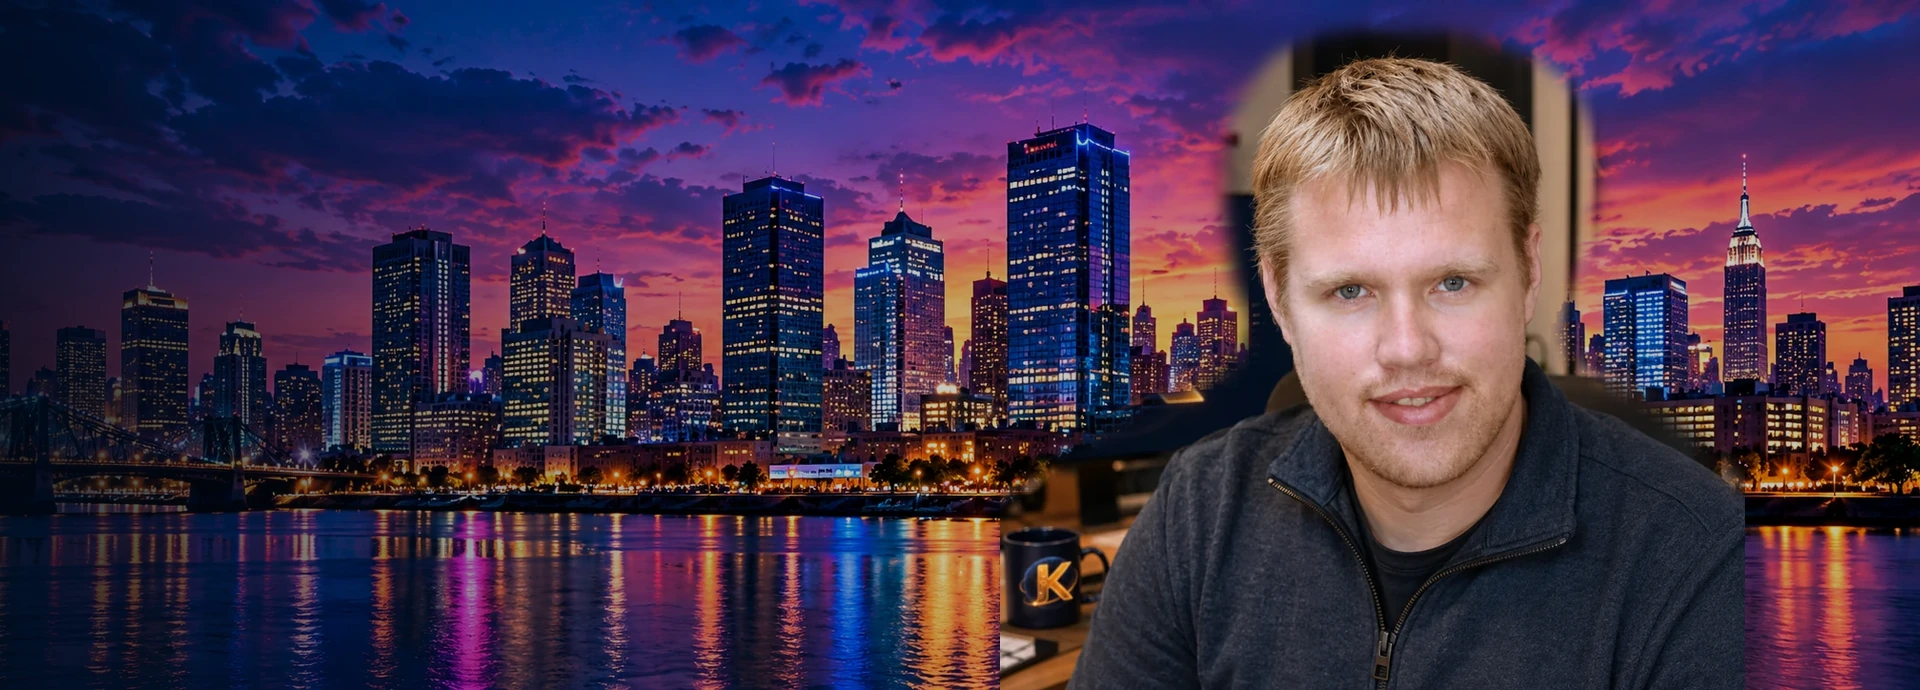
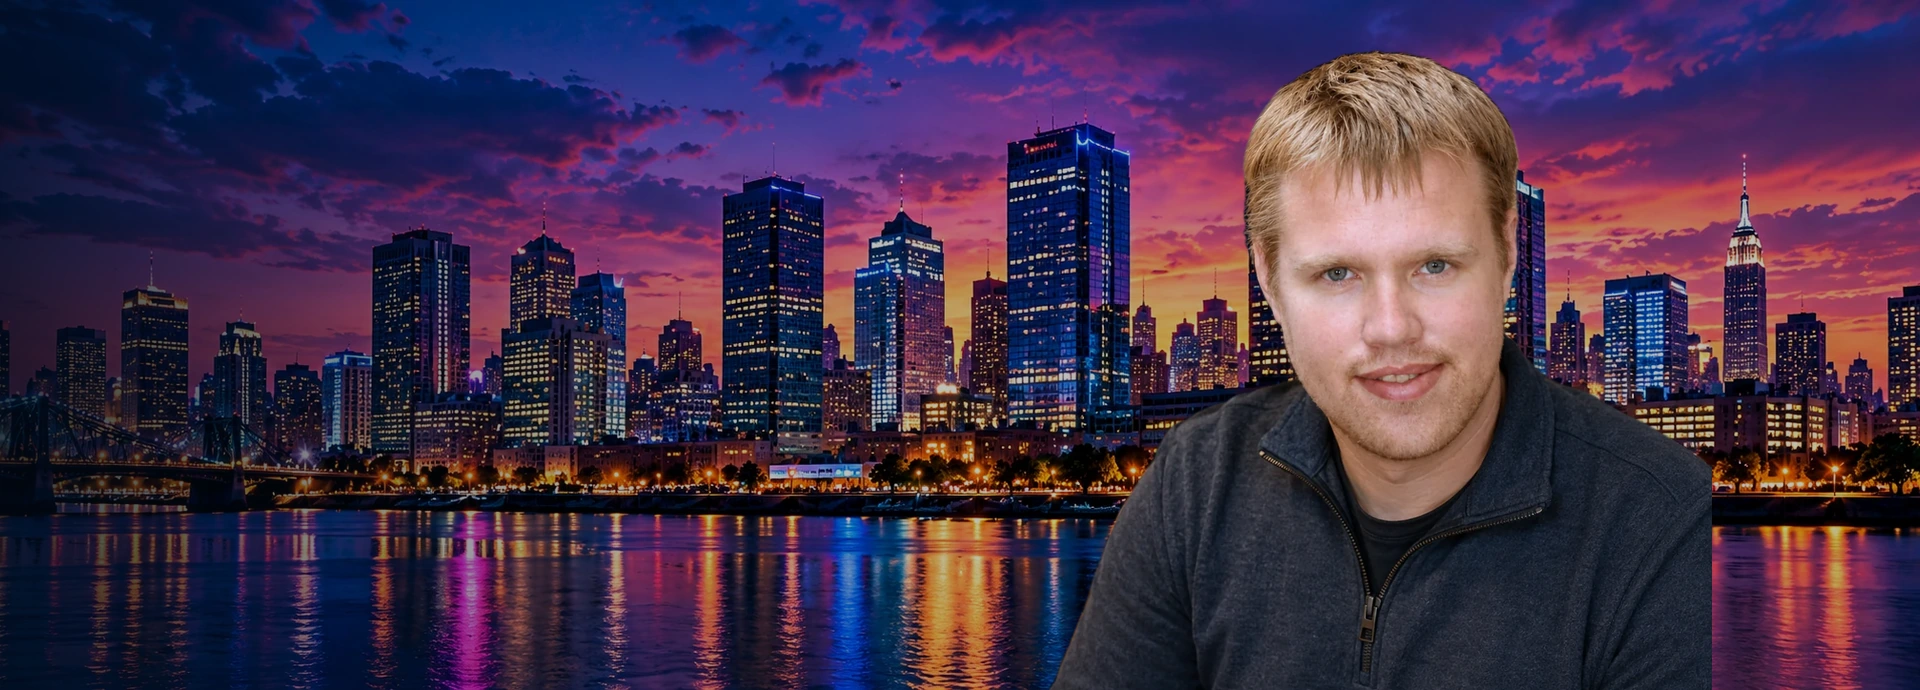
Replace rough About collage with verified Robert cutout

diff --git a/docs/about.html b/docs/about.html
@@ -1,6 +1,6 @@
 <!DOCTYPE html>
 
-<html lang="en"><head><meta charset="utf-8"/><meta content="width=device-width,initial-scale=1" name="viewport"/><meta content="#080a12" name="theme-color"/><title>Robert McMurrer | Author, Actor, Filmmaker &amp; Kira Labs Founder</title><meta content="Robert McMurrer is an author, actor, filmmaker and founder of Kira Labs in Newark, New Jersey. Explore his screen work, books and AI research." name="description"/><link href="https://kiralabs.org/about.html" rel="canonical"/><meta content="Robert McMurrer | Author, Filmmaker &amp; Founder of Kira Labs" property="og:title"/><meta content="Discover Robert McMurrer’s acting and filmmaking credits, books, and independent AI research at Kira Labs." property="og:description"/><meta content="website" property="og:type"/><meta content="https://kiralabs.org/assets/robert-founder-skyline-real-likeness-20261020.webp" property="og:image"/><meta content="summary_large_image" name="twitter:card"/><link href="https://kiralabs.org/assets/favicon.png" rel="icon"/><link href="labs.css" rel="stylesheet"/><link href="about-contact-showcase.css?v=20261020a" rel="stylesheet"/><script type="application/ld+json">{"@context":"https://schema.org","@type":"ProfilePage","@id":"https://kiralabs.org/about.html#profile","url":"https://kiralabs.org/about.html","name":"About Robert McMurrer","mainEntity":{"@type":"Person","@id":"https://kiralabs.org/about.html#robert-mcmurrer","name":"Robert McMurrer","alternateName":"Robert Lawrence McMurrer","url":"https://kiralabs.org/about.html","description":"Author, actor, filmmaker and independent AI researcher; founder of Kira Labs in Newark, New Jersey.","jobTitle":["Author","Actor","Filmmaker","Founder of Kira Labs"],"worksFor":{"@type":"Organization","name":"Kira Labs","url":"https://kiralabs.org/"},"sameAs":["https://www.imdb.com/name/nm2258412/","https://www.goodreads.com/author/list/6007307.Robert_McMurrer","https://www.linkedin.com/in/rmcmurrer","https://www.facebook.com/rmcmurrer/","https://github.com/rmcmurrer81"]}}</script><link rel="stylesheet" href="fidelity-website-20261020.css?v=20261020-7"/><link rel="stylesheet" href="hero-layout-fix-20261020.css?v=2"/><link rel="stylesheet" href="website-visual-target-20261020.css?v=1"/></head><body class="xf-page xf-about about-page kb-about"><a class="skip" href="#main">Skip to main content</a><header class="site-header"><div class="wrap navrow"><a aria-label="Kira Labs home" class="brand" href="index.html"><span class="brandmark"><img alt="" decoding="async" height="38" src="https://kiralabs.org/assets/kira-world-k-logo-192.png" width="38"/></span><span class="brandwords"><strong>Kira Labs</strong><small>Independent AI research</small></span></a><button aria-controls="primary-nav" aria-expanded="false" class="menubtn menu-toggle" type="button">Menu</button><nav aria-label="Main navigation" class="nav" id="primary-nav"><a href="index.html">Home</a><a href="projects.html">Projects</a><a href="research.html">Research</a><a href="progress.html">Lab timeline</a><a aria-current="page" href="about.html">About</a><a href="support.html">Support</a><a class="contact" href="contact.html">Contact</a></nav></div></header><main id="main"><section class="xf-hero xf-hero-about" aria-labelledby="xf-about-title"><div class="xf-hero-inner"><div class="xf-hero-copy"><p class="xf-overline">About Kira Labs</p><h1 class="xf-display" id="xf-about-title">Robert<em>McMurrer.</em></h1><p class="xf-role">AUTHOR · ACTOR · FILMMAKER · AI RESEARCHER</p><p class="xf-subheading">I'm the founder of Kira Labs, an independent AI research initiative in Newark, New Jersey. My work connects storytelling, technology, learning, memory and the exploration of continuing synthetic people.</p><div class="xf-hero-actions"><a class="button primary" href="contact.html">Contact Robert →</a><a class="button" href="projects.html">Explore the lab →</a></div><nav aria-label="Robert’s professional profiles" class="founder-profiles"><a href="https://www.imdb.com/name/nm2258412/" rel="noopener noreferrer" target="_blank">IMDb · film &amp; television ↗</a><a href="https://www.goodreads.com/author/list/6007307.Robert_McMurrer" rel="noopener noreferrer" target="_blank">Goodreads · published books ↗</a><a href="https://www.linkedin.com/in/rmcmurrer" rel="noopener noreferrer" target="_blank">LinkedIn · professional background ↗</a><a href="https://www.facebook.com/rmcmurrer/" rel="noopener noreferrer" target="_blank">Professional Facebook ↗</a></nav><p class="xf-note">AI-assisted founder image based on Robert’s approved portrait reference. Not an unedited personal photograph.</p></div><figure class="xf-hero-visual"><img src="assets/robert-founder-skyline-real-likeness-20261020.webp" alt="New cinematic composite of Robert’s approved AI-assisted film portrayal against a city skyline, illustrative and not an unedited photograph" fetchpriority="high" decoding="async"/><figcaption>Founder portrait · cinematic composite</figcaption></figure></div></section><section class="xf-section xf-about-gallery" aria-labelledby="xf-gallery-title"><div class="xf-wide"><div class="xf-section-top"><div><p class="xf-overline">From storytelling to AI research</p><h2 class="xf-section-title" id="xf-gallery-title">From storytelling<em>to AI research.</em></h2></div><p>Writing, filmmaking, learning and synthetic identity research are connected through a lifelong interest in stories and continuing relationships.</p></div><div class="xf-card-grid">
+<html lang="en"><head><meta charset="utf-8"/><meta content="width=device-width,initial-scale=1" name="viewport"/><meta content="#080a12" name="theme-color"/><title>Robert McMurrer | Author, Actor, Filmmaker &amp; Kira Labs Founder</title><meta content="Robert McMurrer is an author, actor, filmmaker and founder of Kira Labs in Newark, New Jersey. Explore his screen work, books and AI research." name="description"/><link href="https://kiralabs.org/about.html" rel="canonical"/><meta content="Robert McMurrer | Author, Filmmaker &amp; Founder of Kira Labs" property="og:title"/><meta content="Discover Robert McMurrer’s acting and filmmaking credits, books, and independent AI research at Kira Labs." property="og:description"/><meta content="website" property="og:type"/><meta content="https://kiralabs.org/assets/robert-founder-skyline-real-likeness-20261020.webp?v=3" property="og:image"/><meta content="summary_large_image" name="twitter:card"/><link href="https://kiralabs.org/assets/favicon.png" rel="icon"/><link href="labs.css" rel="stylesheet"/><link href="about-contact-showcase.css?v=20261020a" rel="stylesheet"/><script type="application/ld+json">{"@context":"https://schema.org","@type":"ProfilePage","@id":"https://kiralabs.org/about.html#profile","url":"https://kiralabs.org/about.html","name":"About Robert McMurrer","mainEntity":{"@type":"Person","@id":"https://kiralabs.org/about.html#robert-mcmurrer","name":"Robert McMurrer","alternateName":"Robert Lawrence McMurrer","url":"https://kiralabs.org/about.html","description":"Author, actor, filmmaker and independent AI researcher; founder of Kira Labs in Newark, New Jersey.","jobTitle":["Author","Actor","Filmmaker","Founder of Kira Labs"],"worksFor":{"@type":"Organization","name":"Kira Labs","url":"https://kiralabs.org/"},"sameAs":["https://www.imdb.com/name/nm2258412/","https://www.goodreads.com/author/list/6007307.Robert_McMurrer","https://www.linkedin.com/in/rmcmurrer","https://www.facebook.com/rmcmurrer/","https://github.com/rmcmurrer81"]}}</script><link rel="stylesheet" href="fidelity-website-20261020.css?v=20261020-7"/><link rel="stylesheet" href="hero-layout-fix-20261020.css?v=2"/><link rel="stylesheet" href="website-visual-target-20261020.css?v=1"/></head><body class="xf-page xf-about about-page kb-about"><a class="skip" href="#main">Skip to main content</a><header class="site-header"><div class="wrap navrow"><a aria-label="Kira Labs home" class="brand" href="index.html"><span class="brandmark"><img alt="" decoding="async" height="38" src="https://kiralabs.org/assets/kira-world-k-logo-192.png" width="38"/></span><span class="brandwords"><strong>Kira Labs</strong><small>Independent AI research</small></span></a><button aria-controls="primary-nav" aria-expanded="false" class="menubtn menu-toggle" type="button">Menu</button><nav aria-label="Main navigation" class="nav" id="primary-nav"><a href="index.html">Home</a><a href="projects.html">Projects</a><a href="research.html">Research</a><a href="progress.html">Lab timeline</a><a aria-current="page" href="about.html">About</a><a href="support.html">Support</a><a class="contact" href="contact.html">Contact</a></nav></div></header><main id="main"><section class="xf-hero xf-hero-about" aria-labelledby="xf-about-title"><div class="xf-hero-inner"><div class="xf-hero-copy"><p class="xf-overline">About Kira Labs</p><h1 class="xf-display" id="xf-about-title">Robert<em>McMurrer.</em></h1><p class="xf-role">AUTHOR · ACTOR · FILMMAKER · AI RESEARCHER</p><p class="xf-subheading">I'm the founder of Kira Labs, an independent AI research initiative in Newark, New Jersey. My work connects storytelling, technology, learning, memory and the exploration of continuing synthetic people.</p><div class="xf-hero-actions"><a class="button primary" href="contact.html">Contact Robert →</a><a class="button" href="projects.html">Explore the lab →</a></div><nav aria-label="Robert’s professional profiles" class="founder-profiles"><a href="https://www.imdb.com/name/nm2258412/" rel="noopener noreferrer" target="_blank">IMDb · film &amp; television ↗</a><a href="https://www.goodreads.com/author/list/6007307.Robert_McMurrer" rel="noopener noreferrer" target="_blank">Goodreads · published books ↗</a><a href="https://www.linkedin.com/in/rmcmurrer" rel="noopener noreferrer" target="_blank">LinkedIn · professional background ↗</a><a href="https://www.facebook.com/rmcmurrer/" rel="noopener noreferrer" target="_blank">Professional Facebook ↗</a></nav><p class="xf-note">AI-assisted founder image based on Robert’s approved portrait reference. Not an unedited personal photograph.</p></div><figure class="xf-hero-visual"><img src="assets/robert-founder-skyline-real-likeness-20261020.webp?v=3" alt="New cinematic composite of Robert’s approved AI-assisted film portrayal against a city skyline, illustrative and not an unedited photograph" fetchpriority="high" decoding="async"/><figcaption>Founder portrait · cinematic composite</figcaption></figure></div></section><section class="xf-section xf-about-gallery" aria-labelledby="xf-gallery-title"><div class="xf-wide"><div class="xf-section-top"><div><p class="xf-overline">From storytelling to AI research</p><h2 class="xf-section-title" id="xf-gallery-title">From storytelling<em>to AI research.</em></h2></div><p>Writing, filmmaking, learning and synthetic identity research are connected through a lifelong interest in stories and continuing relationships.</p></div><div class="xf-card-grid">
 <article class="xf-card"><img src="assets/video-studio-storyboard-contact-sheet.jpg" loading="lazy" decoding="async" alt="Recorded Video Studio creative workflow contact sheet"/><div class="xf-card-copy"><span class="xf-card-tag">Film and television</span><h3>Storytelling</h3><p>Film, acting and independent creative work.</p><a href="https://www.imdb.com/name/nm2258412/" target="_blank" rel="noopener noreferrer">IMDb credits ↗</a></div></article>
 <article class="xf-card"><img src="assets/about-turned-video-portrait.webp" loading="lazy" decoding="async" alt="Creative cinematic video still, not a documentary portrait"/><div class="xf-card-copy"><span class="xf-card-tag">Writing</span><h3>Published books</h3><p>Fiction, poetry and themes of memory and identity.</p><a href="https://www.goodreads.com/author/list/6007307.Robert_McMurrer" target="_blank" rel="noopener noreferrer">Books ↗</a></div></article>
 <article class="xf-card"><img src="assets/hero-newbrain-neural-preview-20261020.webp" loading="lazy" decoding="async" alt="NewBrain concept illustration"/><div class="xf-card-copy"><span class="xf-card-tag">Artificial intelligence</span><h3>Independent research</h3><p>Experiments with reusable cognitive architecture.</p><a href="newbrain.html">NewBrain ↗</a></div></article>
